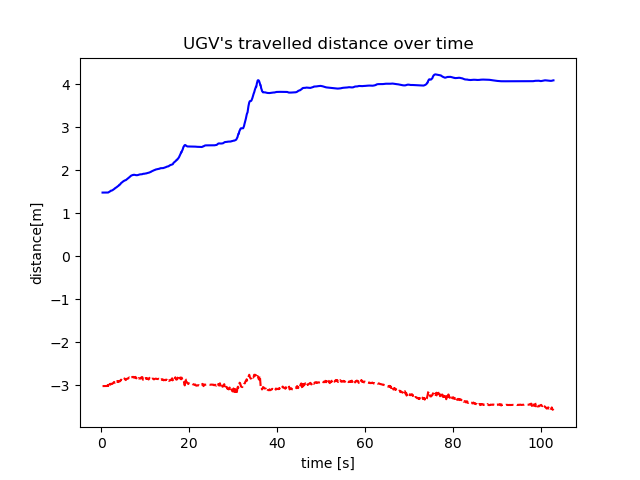
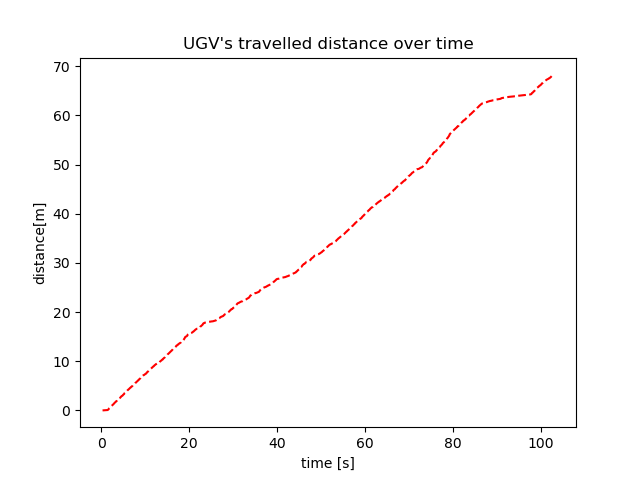
graph distance and time

diff --git a/nodes/tf_reader.py b/nodes/tf_reader.py
@@ -8,6 +8,7 @@ from tqdm import tqdm
 import tf2_ros
 from tf2_ros import ExtrapolationException
 from ros_numpy import numpify
+from math import sqrt
 
 
 def create_graphs(bag):
@@ -137,12 +138,24 @@ def create_graph_distance_and_time(icp_x, icp_y, icp_z, imu_x, imu_y, imu_z, sav
     plt.ylabel('distance[m]')
     plt.title("UGV's travelled distance over time")
     icp_x = np.array(icp_x)
+    icp_distances_x = np.abs(icp_x[1:] - icp_x[:-1])
+    icp_movement_x = [0]
+    for distance in icp_distances_x:
+        icp_movement_x.append(distance + icp_movement_x[-1])
     icp_y = np.array(icp_y)
+    icp_distances_y = np.abs(icp_y[1:] - icp_y[:-1])
+    icp_movement_y = [0]
+    for distance in icp_distances_y:
+        icp_movement_y.append(distance + icp_movement_y[-1])
     icp_z = np.array(icp_z)
-    icp_dists_x = np.abs(icp_x[1:] - icp_x[:-1])
-    print(icp_dists_x[0], saved_times[0])
-    ax.plot(saved_times, imu_z, color='blue')
-    ax.plot(saved_times, icp_z, color='red', linestyle='--')
+    icp_distances_z = np.abs(icp_z[1:] - icp_z[:-1])
+    icp_movement_z = [0]
+    for distance in icp_distances_z:
+        icp_movement_z.append(distance + icp_movement_z[-1])
+    icp_movement = []
+    for i in range(len(icp_movement_x)):
+        icp_movement.append(sqrt(pow(icp_movement_x[i], 2) + pow(icp_movement_y[i], 2) + pow(icp_movement_z[i], 2)))
+    ax.plot(saved_times, icp_movement, color='red', linestyle='--')
     plt.savefig(output_path)
     plt.close()
 
